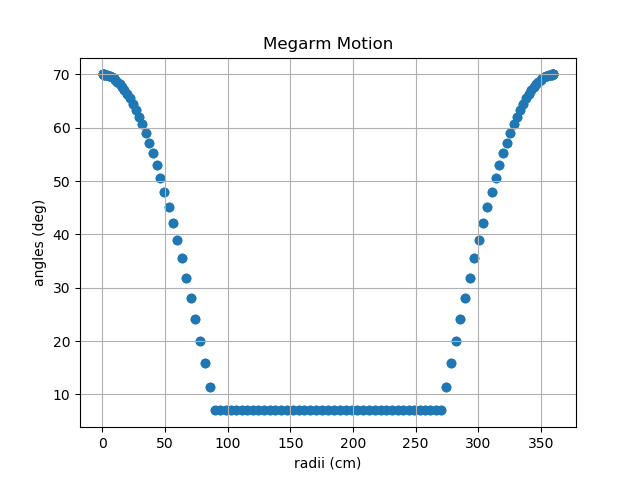
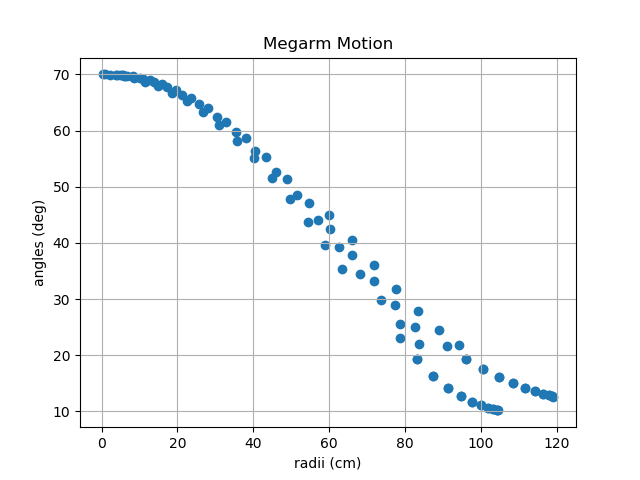
Added limited movement
(+) When changing the height of operation, the program now calculates the min and maximum shoulder angles possible to operate.
(+) .gitignore

diff --git a/robotics.py b/robotics.py
@@ -44,11 +44,9 @@ a = 31.5 #cm
 b = 31.5 #cm
 c = 7 #cm
 
-#specified
+#specified operation
 operationHeight = 0 #cm
 startAngle = 0 #deg
-endAngle = 90 #deg
-
 #graphics
 scaleFactor = 2.5
 lineWidth = 5
@@ -56,15 +54,36 @@ doGrid = True
 doPlot = False
 gridTileSize = 20 #cm
 fps = 60
-cyclesPerSec=.25
+cyclesPerSec=1
+operationHeightStore=operationHeight
 
-t1=t2=t3=ar=az=br=bz=cr=cz=frameCount=deg=deg2=0
+t1=t2=t3=ar=az=br=bz=cr=cz=frameCount=deg=deg2=endAngle=0
 POI=[0,0]
 circles=[]
 points=[]
 
 img = pygame.image.load("marquette robotics.png")
 imgScaled = pygame.transform.scale(img, (200, 66))
+
+def changeAngles():
+    global endAngle, startAngle, operationHeight
+    if a<=abs(operationHeight):
+        if operationHeight>0:
+            operationHeight=a
+            print("max height reached")
+        else:
+            operationHeight=-a
+            print("min height reached")
+    if b>a and operationHeight>=0:
+        endAngle=180
+    else:
+        if a>b+operationHeight and a!=0:
+            endAngle=math.rad2deg(math.arcsin((b+operationHeight)/a))
+        elif a>=abs(operationHeight-b) and a!=0:
+            endAngle=-math.rad2deg(math.arcsin((operationHeight-b)/a))
+        if a+b>operationHeight>0:
+            endAngle=180-endAngle
+    startAngle = math.rad2deg(math.arcsin(operationHeight/a))
 
 def userInputLoop():
     global a,b,c,operationHeight,cyclesPerSec,done,scaleFactor,endAngle,startAngle,circles,gridTileSize
@@ -77,8 +96,10 @@ def userInputLoop():
             print("Attempting adjust...")
             if words[0]=="a":
                 a=float(words[1])
+                changeAngles()
             elif words[0]=="b":
                 b=float(words[1])
+                changeAngles()
             elif words[0]=="c":
                 c=float(words[1])
             elif words[0]=="z":
@@ -91,7 +112,7 @@ def userInputLoop():
                 endAngle=float(words[1])
             elif words[0]=="sf":
                 scaleFactor=float(words[1])
-            elif words[0]=="gt":
+            elif words[0]=="gs":
                 gridTileSize=float(words[1])
             else:
                 print("Sorry, can't do that.")
@@ -152,15 +173,18 @@ try:
 except:
     print("Error: unable to start thread")
 
+changeAngles()
+goingUp = True
 while not done:
     # --- Main event loop
     for event in pygame.event.get():
         if event.type == pygame.QUIT:
             done = True
     frameCount+=1
-
+    if operationHeightStore!=operationHeight:
+        changeAngles()
+        operationHeightStore = operationHeight
     calculateAngles()
-
     screen.fill(BLACK)
 
     avector = pygame.math.Vector2()
@@ -204,7 +228,7 @@ while not done:
     overlay("Angle 2: " + str(int(t2)) + "deg", 100, 110, GREEN)
     overlay("Angle 3: " + str(int(t3)) + "deg", 100, 130, BLUE)
 #    print("t", t1, " r", finalRadius)
-    if (-1 <= (-operationHeight/b)+(a/b)*math.cos(math.deg2rad(90-t1)) <= 1) and frameCount<fps/cyclesPerSec and doPlot:
+    if (-1 <= (-operationHeight/b)+(a/b)*math.cos(math.deg2rad(90-t1)) <= 1) and doPlot:
         points.append((t1,finalRadius))
     screen.blit(imgScaled, (WIDTH-200, 0))
 
